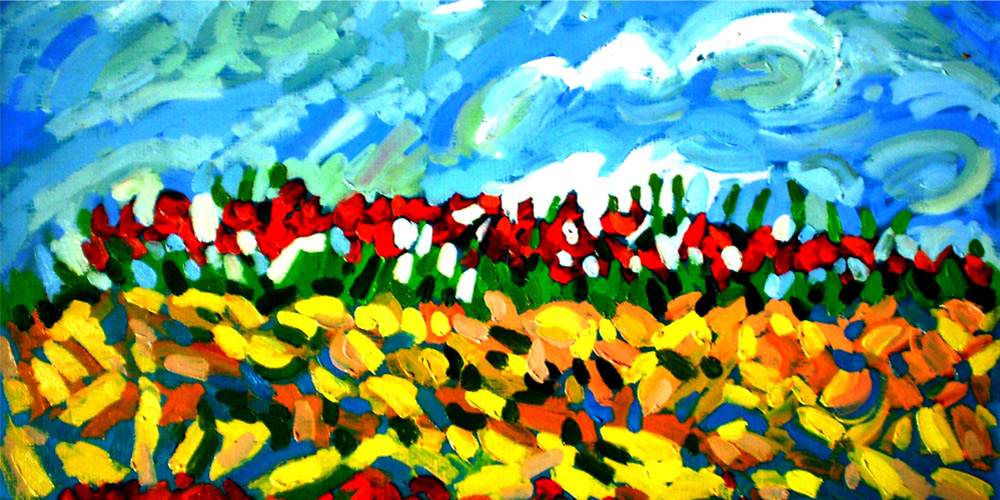
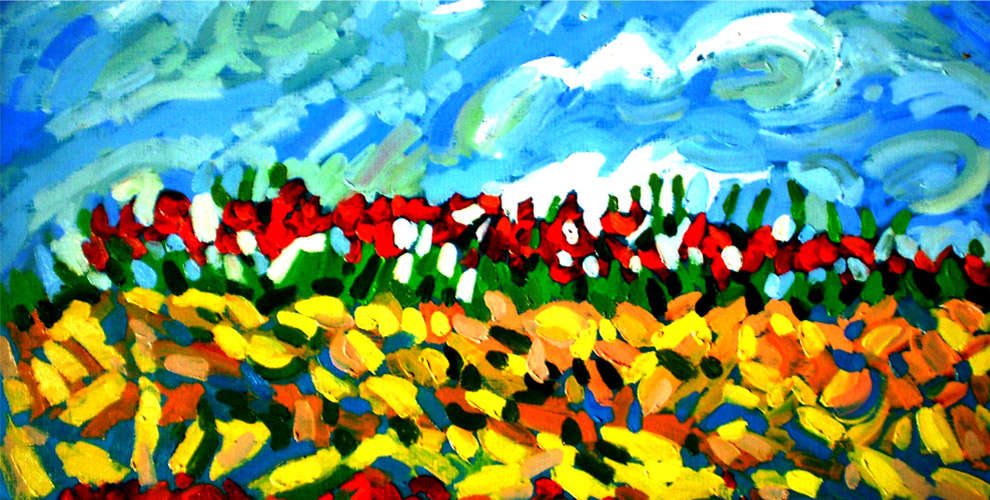
optimize image size and fix wrong width

diff --git a/src/SEstruch/WebsiteBundle/Resources/public/css/10-style.css b/src/SEstruch/WebsiteBundle/Resources/public/css/10-style.css
@@ -103,7 +103,7 @@ section {
 
 section.contacto {
     background-image: url('/images/cuadro.jpg');
-    width: 1000px;
+    width: 990px;
     height: 500px;
 }
 
